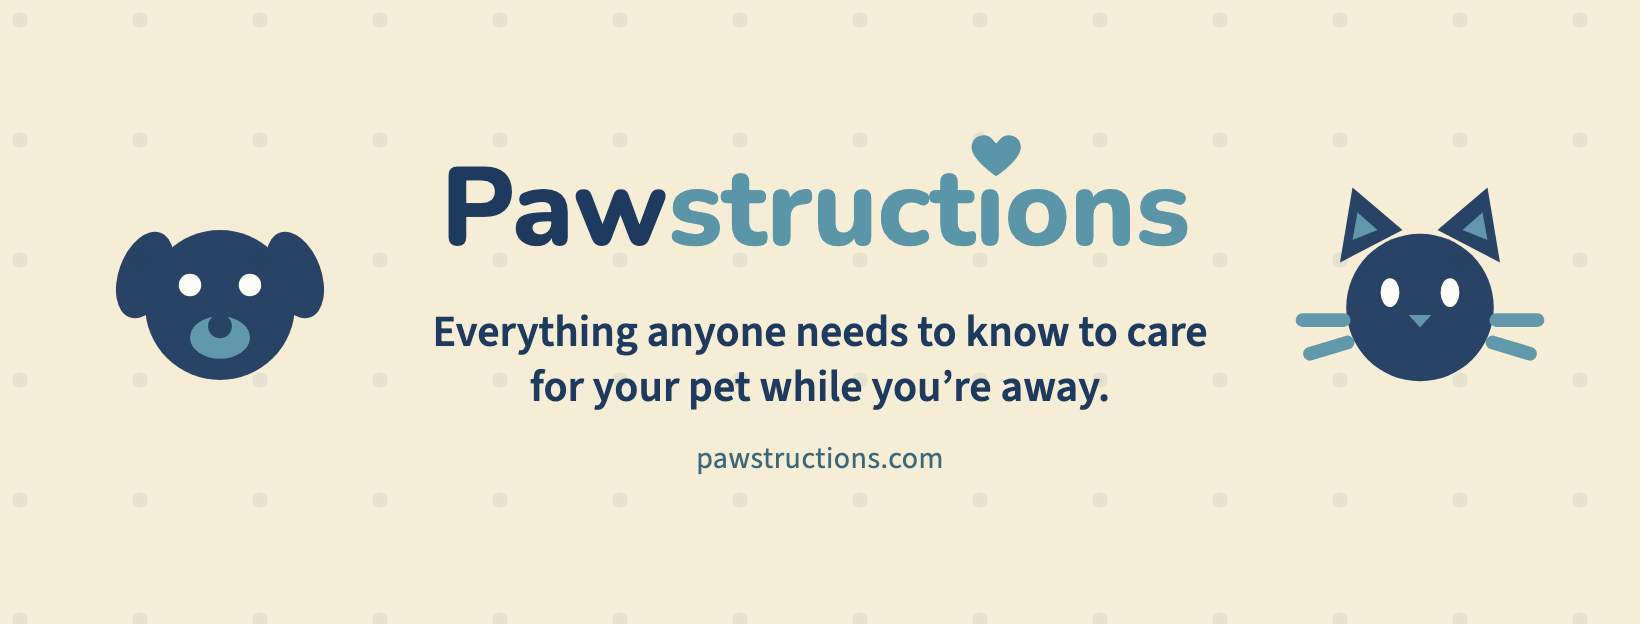
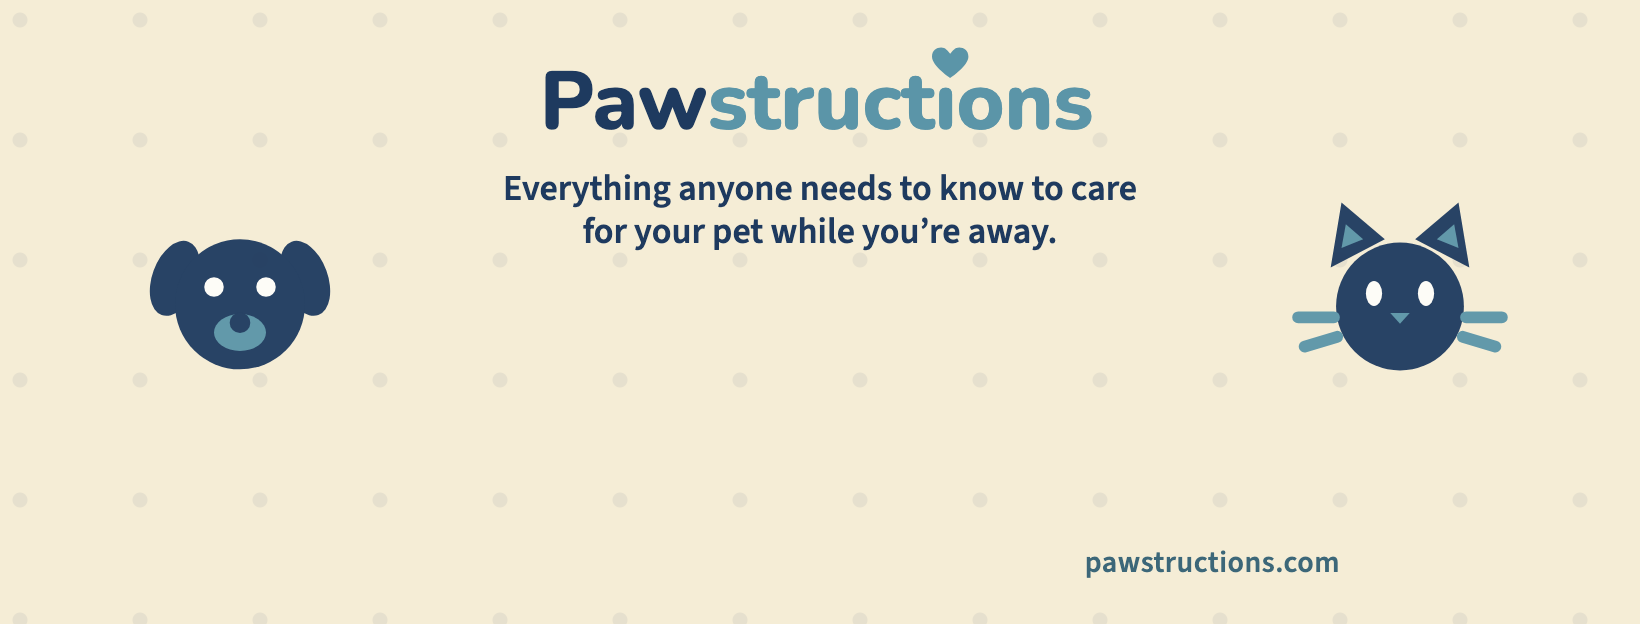
Facebook images: P optically centered, cover text clear of the profile picture
The P measured centered in its box, but its weight sits up and left (the
bowl is top-right, the bottom-right is empty), so it read as off-center in
Facebook's circle. Centered it between its box and its visual mass, and
shrank it for more room inside the circle.

Facebook's page preview drops the profile picture over the middle of the
cover's lower half, which hid most of the tagline. The wordmark and tagline
now sit in the top band, the dog and cat flank the middle, and the web
address moved to the lower right, away from the circle.

diff --git a/brand/facebook/cover.html b/brand/facebook/cover.html
@@ -2,14 +2,14 @@
 <style>
 html,body{margin:0;width:1640px;height:624px;overflow:hidden;background:#F5EDD6;font-family:'Source Sans 3',Arial,sans-serif}
 .wrap{position:relative;width:1640px;height:624px}
-.center{position:absolute;left:50%;top:50%;transform:translate(-50%,-52%);text-align:center;width:1100px}
-.tag{margin-top:18px;font-size:44px;line-height:1.25;color:#1E3A5F;font-weight:600}
-.url{margin-top:22px;font-size:30px;color:#3C6779;letter-spacing:.5px}
+.center{position:absolute;left:50%;top:44px;transform:translateX(-50%);text-align:center;width:1100px}
+.tag{margin-top:6px;font-size:36px;line-height:1.2;color:#1E3A5F;font-weight:600}
+.url{position:absolute;right:300px;bottom:40px;font-size:30px;color:#3C6779;letter-spacing:.5px;font-weight:600}
 .pet{position:absolute;opacity:.95}
 .paws{position:absolute;inset:0;opacity:.07;background-image:radial-gradient(circle at 20px 20px,#1E3A5F 7px,transparent 8px);background-size:120px 120px}
 </style></head><body><div class="wrap"><div class="paws"></div>
-<div class="pet" style="left:70px;top:150px"><svg xmlns="http://www.w3.org/2000/svg" width="300" height="300" viewBox="0 0 24 24" fill="none"><ellipse cx="6" cy="10" rx="2.1" ry="3.6" fill="#1E3A5F" transform="rotate(20 6 10)"></ellipse><ellipse cx="18" cy="10" rx="2.1" ry="3.6" fill="#1E3A5F" transform="rotate(-20 18 10)"></ellipse><circle cx="12" cy="12.4" r="6" fill="#1E3A5F"></circle><ellipse cx="12" cy="15" rx="2.4" ry="1.7" fill="#5B95A8"></ellipse><circle cx="12" cy="14.1" r="0.95" fill="#1E3A5F"></circle><circle cx="9.6" cy="10.8" r="0.9" fill="#FEFDF9"></circle><circle cx="14.4" cy="10.8" r="0.9" fill="#FEFDF9"></circle></svg></div>
-<div class="pet" style="right:70px;top:150px"><svg xmlns="http://www.w3.org/2000/svg" width="300" height="300" viewBox="0 0 24 24" fill="none"><path d="M5.6 9 6.6 3l4 3.4Z" fill="#1E3A5F"></path><path d="M18.4 9 17.4 3l-4 3.4Z" fill="#1E3A5F"></path><path d="M6.6 7.2 7 5l1.6 1.4Z" fill="#5B95A8"></path><path d="M17.4 7.2 17 5l-1.6 1.4Z" fill="#5B95A8"></path><circle cx="12" cy="12.6" r="5.9" fill="#1E3A5F"></circle><ellipse cx="9.6" cy="11.4" rx="0.75" ry="1.15" fill="#FEFDF9"></ellipse><ellipse cx="14.4" cy="11.4" rx="0.75" ry="1.15" fill="#FEFDF9"></ellipse><path d="M12 14.2l-.9-1h1.8Z" fill="#5B95A8"></path><path d="M5.9 13.6H2.6M6.2 15.4l-3 .9M18.1 13.6h3.3M17.8 15.4l3 .9" stroke="#5B95A8" stroke-width="1.1" stroke-linecap="round"></path></svg></div>
-<div class="center"><svg xmlns="http://www.w3.org/2000/svg" width="760" height="150" viewBox="0 0 960 190"><text font-family="Nunito, sans-serif" font-weight="800" x="0" y="145" font-size="140"><tspan fill="#1E3A5F">Paw</tspan><tspan fill="#5B95A8">structıons</tspan></text><g transform="translate(672 6) scale(2.6)"><path fill="#5B95A8" d="M0 6C0 2 3 0 6 0c3 0 4 2 6 4 2-2 3-4 6-4 3 0 6 2 6 6 0 6-12 14-12 14S0 12 0 6Z"></path></g></svg>
-<div class="tag">Everything anyone needs to know to care<br>for your pet while you&#8217;re away.</div>
-<div class="url">pawstructions.com</div></div></div></body></html>
+<div class="pet" style="left:110px;top:170px"><svg xmlns="http://www.w3.org/2000/svg" width="260" height="260" viewBox="0 0 24 24" fill="none"><ellipse cx="6" cy="10" rx="2.1" ry="3.6" fill="#1E3A5F" transform="rotate(20 6 10)"></ellipse><ellipse cx="18" cy="10" rx="2.1" ry="3.6" fill="#1E3A5F" transform="rotate(-20 18 10)"></ellipse><circle cx="12" cy="12.4" r="6" fill="#1E3A5F"></circle><ellipse cx="12" cy="15" rx="2.4" ry="1.7" fill="#5B95A8"></ellipse><circle cx="12" cy="14.1" r="0.95" fill="#1E3A5F"></circle><circle cx="9.6" cy="10.8" r="0.9" fill="#FEFDF9"></circle><circle cx="14.4" cy="10.8" r="0.9" fill="#FEFDF9"></circle></svg></div>
+<div class="pet" style="right:110px;top:170px"><svg xmlns="http://www.w3.org/2000/svg" width="260" height="260" viewBox="0 0 24 24" fill="none"><path d="M5.6 9 6.6 3l4 3.4Z" fill="#1E3A5F"></path><path d="M18.4 9 17.4 3l-4 3.4Z" fill="#1E3A5F"></path><path d="M6.6 7.2 7 5l1.6 1.4Z" fill="#5B95A8"></path><path d="M17.4 7.2 17 5l-1.6 1.4Z" fill="#5B95A8"></path><circle cx="12" cy="12.6" r="5.9" fill="#1E3A5F"></circle><ellipse cx="9.6" cy="11.4" rx="0.75" ry="1.15" fill="#FEFDF9"></ellipse><ellipse cx="14.4" cy="11.4" rx="0.75" ry="1.15" fill="#FEFDF9"></ellipse><path d="M12 14.2l-.9-1h1.8Z" fill="#5B95A8"></path><path d="M5.9 13.6H2.6M6.2 15.4l-3 .9M18.1 13.6h3.3M17.8 15.4l3 .9" stroke="#5B95A8" stroke-width="1.1" stroke-linecap="round"></path></svg></div>
+<div class="center"><svg xmlns="http://www.w3.org/2000/svg" width="560" height="111" viewBox="0 0 960 190"><text font-family="Nunito, sans-serif" font-weight="800" x="0" y="145" font-size="140"><tspan fill="#1E3A5F">Paw</tspan><tspan fill="#5B95A8">structıons</tspan></text><g transform="translate(672 6) scale(2.6)"><path fill="#5B95A8" d="M0 6C0 2 3 0 6 0c3 0 4 2 6 4 2-2 3-4 6-4 3 0 6 2 6 6 0 6-12 14-12 14S0 12 0 6Z"></path></g></svg>
+<div class="tag">Everything anyone needs to know to care<br>for your pet while you&#8217;re away.</div></div>
+<div class="url">pawstructions.com</div></div></body></html>

diff --git a/brand/facebook/profile.html b/brand/facebook/profile.html
@@ -1,1 +1,1 @@
-<!doctype html><html><head><meta charset="utf-8"><link href="https://fonts.googleapis.com/css2?family=Nunito:wght@800&family=Source+Sans+3:wght@400;600&display=block" rel="stylesheet"><style>html,body{margin:0;width:1080px;height:1080px;overflow:hidden}</style></head><body><svg xmlns="http://www.w3.org/2000/svg" width="1080" height="1080" viewBox="0 0 512 512"><rect width="512" height="512" fill="#1E3A5F"></rect><svg x="106" y="82" width="300" height="348" viewBox="128 96 288 368"><path d="M176 416 V144 H268 A96 96 0 0 1 268 336 H176" fill="none" stroke="#FFFFFF" stroke-width="64" stroke-linecap="round" stroke-linejoin="round"></path><g transform="translate(203 175) scale(1.3)"><g fill="#5B95A8"><ellipse cx="50" cy="66" rx="22" ry="17"></ellipse><ellipse cx="27" cy="42" rx="8.5" ry="12" transform="rotate(-22 27 42)"></ellipse><ellipse cx="73" cy="42" rx="8.5" ry="12" transform="rotate(22 73 42)"></ellipse><ellipse cx="41" cy="28" rx="9" ry="13" transform="rotate(-7 41 28)"></ellipse><ellipse cx="59" cy="28" rx="9" ry="13" transform="rotate(7 59 28)"></ellipse></g></g></svg></svg></body></html>
+<!doctype html><html><head><meta charset="utf-8"><link href="https://fonts.googleapis.com/css2?family=Nunito:wght@800&family=Source+Sans+3:wght@400;600&display=block" rel="stylesheet"><style>html,body{margin:0;width:1080px;height:1080px;overflow:hidden}</style></head><body><svg xmlns="http://www.w3.org/2000/svg" width="1080" height="1080" viewBox="0 0 512 512"><rect width="512" height="512" fill="#1E3A5F"></rect><svg x="0" y="0" width="512" height="512" viewBox="-50 -38 612 612"><path d="M176 416 V144 H268 A96 96 0 0 1 268 336 H176" fill="none" stroke="#FFFFFF" stroke-width="64" stroke-linecap="round" stroke-linejoin="round"></path><g transform="translate(203 175) scale(1.3)"><g fill="#5B95A8"><ellipse cx="50" cy="66" rx="22" ry="17"></ellipse><ellipse cx="27" cy="42" rx="8.5" ry="12" transform="rotate(-22 27 42)"></ellipse><ellipse cx="73" cy="42" rx="8.5" ry="12" transform="rotate(22 73 42)"></ellipse><ellipse cx="41" cy="28" rx="9" ry="13" transform="rotate(-7 41 28)"></ellipse><ellipse cx="59" cy="28" rx="9" ry="13" transform="rotate(7 59 28)"></ellipse></g></g></svg></svg></body></html>
